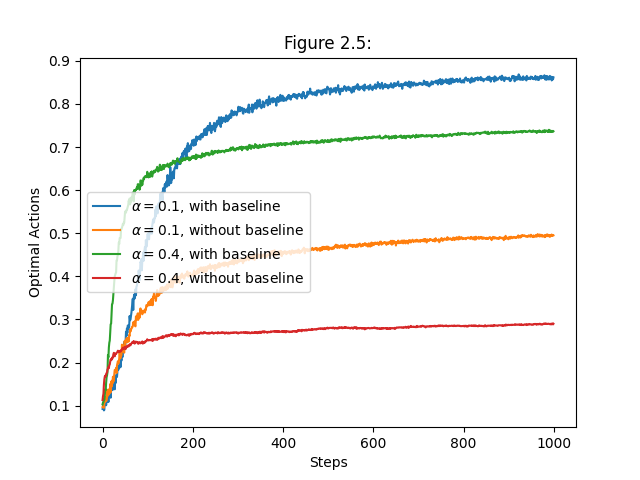
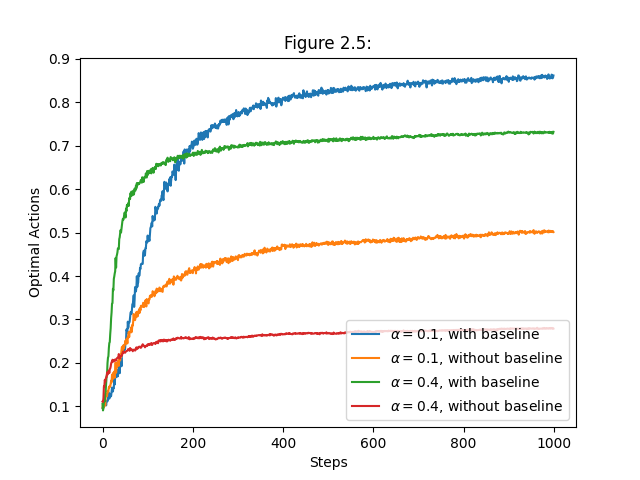
improve README.md and GBA plot

diff --git a/ten-armed-bandit/README.md b/ten-armed-bandit/README.md
@@ -1,106 +1,96 @@
 # Multi-Armed Bandit Reinforcement Learning Project
 
-This project simulates the behavior of a multi-armed bandit problem using epsilon-greedy strategies. It generates plots to visualize the average reward and percentage of optimal actions over time for different epsilon values.
+This project explores various strategies for solving the **Multi-Armed Bandit (MAB)** problem, a classic reinforcement learning challenge. The MAB problem involves an agent making sequential decisions to maximize cumulative rewards by balancing **exploration** (trying new actions) and **exploitation** (leveraging known information). The project implements and compares several algorithms, including **epsilon-greedy**, **optimistic initialization**, **Upper Confidence Bound (UCB)**, and **Gradient Bandit Algorithm (GBA)**, to understand their performance in stationary environments.
 
 ---
+
 ## Features
-- Simulates multi-armed bandit problems with customizable epsilon values.
-- Generates plots for average reward and percentage of optimal actions.
-- Supports sample-averages and constant step-size methods for action-value estimation.
+- **Customizable Bandit Simulation**: Simulates multi-armed bandit problems with adjustable parameters like epsilon values, step sizes, and initial action values.
+- **Multiple Algorithms**: Implements and compares epsilon-greedy, optimistic initialization, UCB, and gradient bandit algorithms.
+- **Visualization**: Generates plots for average reward and percentage of optimal actions over time.
+- **Flexible Methods**: Supports both **sample-averages** and **constant step-size** methods for action-value estimation.
 
 ---
+
 ## How It Works
-1. **Bandit Class**: Implements the epsilon-greedy algorithm for action selection and updates action values based on rewards.
-2. **Simulation**: Runs multiple independent runs with different epsilon values and calculates mean rewards and optimal actions.
-3. **Plotting**: Visualizes the results using `matplotlib` and saves the plots as high-resolution images.
+1. **Bandit Class**: Implements the core logic for action selection and value updates using different strategies.
+2. **Simulation**: Runs multiple independent runs with varying parameters to evaluate performance.
+3. **Plotting**: Visualizes results using `matplotlib` and saves plots as high-resolution images for analysis.
 
 ---
+
 ## Requirements
-
-You can see the requirements in `requirements.txt`
-
----
-
-# Results 
-## Greedy Action Selection VS ε-greedy Action Selection
-
-1. **Exploration vs. Exploitation**:
-   - Higher epsilon (`ε = 0.10`) leads to more exploration, which helps discover better actions early but reduces long-term performance.
-   - Lower epsilon (`ε = 0.01`) leads to better long-term results. The percentage of optimal actions increases steadily and converges to a higher value, indicating a good balance between exploration and exploitation.
-   - Greedy strategy (`ε = 0.00`) performs poorly because it lacks exploration.
-
-2. **Optimal Strategy**:
-   - A small amount of exploration (`ε = 0.01`) is optimal for maximizing both average reward and the percentage of optimal actions over time.
-
-<img src="https://github.com/user-attachments/assets/f96a748d-1179-477d-92ef-4828d0e1b068" width="400" />
+To run the project, install the required dependencies:
+```bash
+pip install numpy matplotlib tqdm
+```
 
 ---
 
-## Optimistic Initial Values VS Realistic Initial Values
+## Results and Findings
 
-The simulation calculates the percentage of optimal actions over time for each bandit. The results are plotted as follows:
+### 1. **Epsilon-Greedy Action Selection**
+   - **Exploration vs. Exploitation**: 
+     - Higher epsilon values (`ε = 0.10`) encourage more exploration, which helps discover better actions early but may reduce long-term performance.
+     - Lower epsilon values (`ε = 0.01`) strike a balance, leading to better long-term results by gradually increasing the percentage of optimal actions.
+     - Greedy strategy (`ε = 0.00`) performs poorly due to lack of exploration.
+   - **Optimal Strategy**: A small amount of exploration (`ε = 0.01`) is ideal for maximizing both average reward and the percentage of optimal actions over time.
 
-1. **Bandit 1 (`ε = 0, 𝑄₁(𝑎) = 5`)**: Represents a greedy strategy with optimistic initial values.
-2. **Bandit 2 (`ε = 0.1, 𝑄₁(𝑎) = 0`)**: Represents an epsilon-greedy strategy with realistic initial values.
-
-<img src="https://github.com/user-attachments/assets/9b01d312-d812-460b-a7b3-50aa9d0ab5f1" width="400" />
-
-
- - In **stationary environments**, this method forces early exploration: actions with high initial values eventually get corrected if they’re not actually optimal.
- - In **nonstationary environments**, this method fails because the agent stops exploring new possibilities once it settles on one action.
-
-### My Findings: Why Optimistic Initialization Worked Best in this Case  
-
-After extending the simulation, I found that **the optimistic method (`ε = 0, Q₁(a) = 5`) performed better** because my problem is **stationary**—the true rewards **do not change over time**.  
-
-
-- The **high initial values** encourage early exploration by making all actions seem promising at first.  
-- Once the agent discovers the **best action**, it **sticks to it**, maximizing rewards.  
-- The **ε-greedy method (`ε = 0.1, Q₁(a) = 0`) continues exploring**, even after finding the optimal action, leading to **unnecessary losses**.  
-
-Because **exploration isn’t needed indefinitely** in a stationary environment, the **optimistic greedy approach** proves to be more efficient.  
-
-## Upper Confidence Bound (UCB) Action Selection
-
-The **UCB algorithm** selects actions by balancing **exploration** and **exploitation** using a confidence-based approach.  
-- It prioritizes under-explored actions based on an **uncertainty term (c = 2)**.  
-- Over time, exploration decreases as the agent becomes more confident in the best action.  
-
-### Simulation:
-- **Bandit 1:** UCB (`c = 2`), sample-average method.  
-- **Bandit 2:** ε-greedy (`ε = 0.1`), sample-average method.  
-- **Result:** UCB achieves **higher rewards** by focusing exploration where needed.  
-
-<img src="https://github.com/user-attachments/assets/02d38a28-7073-4998-b9a7-8c0b0c7903cf" width="400" />
-
+   ![Epsilon-Greedy Results](https://github.com/user-attachments/assets/f96a748d-1179-477d-92ef-4828d0e1b068)
 
 ---
 
-## Gradient Bandit Algorithm (GBA)
+### 2. **Optimistic Initial Values vs. Realistic Initial Values**
+   - **Optimistic Initialization (`ε = 0, Q₁(a) = 5`)**: Encourages early exploration by setting high initial action values. This method works well in **stationary environments** because the agent eventually converges to the optimal action.
+   - **Realistic Initialization (`ε = 0.1, Q₁(a) = 0`)**: Continues exploring even after finding the optimal action, leading to unnecessary losses.
+   - **Key Insight**: Optimistic initialization performs better in stationary environments because it efficiently balances exploration and exploitation without requiring indefinite exploration.
 
-The **Gradient Bandit algorithm** dynamically adjusts action probabilities based on **policy gradient techniques**.  
-- Uses **preference scores** rather than value estimates.  
-- Incorporates a **learning rate (α)** and **baseline reward** for better adaptation.  
-
-### Simulation:
-- **Variations tested:**  
-  - `α = 0.1` and `α = 0.4`  
-  - With and without **baseline reward**  
-- **Result:** Higher `α` leads to **faster learning**, while using a baseline improves stability.
-
-<img src="https://github.com/user-attachments/assets/bf90ec58-b7af-4229-8cf7-86a0dea06682" width="400" />
-
-
+   ![Optimistic vs. Realistic](https://github.com/user-attachments/assets/9b01d312-d812-460b-a7b3-50aa9d0ab5f1)
 
 ---
+
+### 3. **Upper Confidence Bound (UCB) Action Selection**
+   - **UCB Algorithm**: Balances exploration and exploitation by prioritizing under-explored actions using a confidence-based term (`c = 2`).
+   - **Simulation Results**: UCB achieves higher rewards compared to epsilon-greedy (`ε = 0.1`) by focusing exploration where it is most needed.
+   - **Advantage**: UCB dynamically adjusts exploration based on uncertainty, making it more efficient in stationary environments.
+
+   ![UCB Results](https://github.com/user-attachments/assets/02d38a28-7073-4998-b9a7-8c0b0c7903cf)
+
+---
+
+### 4. **Gradient Bandit Algorithm (GBA)**
+   - **GBA Overview**: Adjusts action probabilities dynamically using **preference scores** and a **learning rate (α)**. It incorporates a **baseline reward** for stability.
+   - **Simulation Results**:
+     - Higher learning rates (`α = 0.4`) lead to faster learning but may reduce stability.
+     - Using a baseline reward improves performance by providing a reference point for updates.
+   - **Key Insight**: GBA is effective for adapting to changing environments but requires careful tuning of parameters.
+
+   ![GBA Results](https://github.com/user-attachments/assets/f305ed46-5c97-40c9-bb09-d26692dd843a)
+
+---
+
+## Conclusion
+This project demonstrates the effectiveness of different strategies for solving the multi-armed bandit problem in stationary environments. Key takeaways include:
+1. **Epsilon-Greedy**: A small amount of exploration (`ε = 0.01`) provides a good balance between exploration and exploitation.
+2. **Optimistic Initialization**: Works best in stationary environments by encouraging early exploration without requiring indefinite exploration.
+3. **UCB**: Outperforms epsilon-greedy by dynamically adjusting exploration based on uncertainty.
+4. **GBA**: Offers flexibility and adaptability but requires careful parameter tuning.
+
+These findings highlight the importance of choosing the right strategy based on the problem's characteristics, such as whether the environment is stationary or non-stationary.
+
+---
+
 ## How to Run
 1. Install dependencies:
    ```bash
    pip install numpy matplotlib tqdm
-   
-2. Run the ten_armed_testbed.ipynb notebook:
-
+   ```
+2. Run the `ten_armed_testbed.ipynb` notebook:
    ```bash
    python ten_armed_testbed.ipynb
-   
+   ```
 3. Generated plots are saved in `../generated_images/`.
+
+---
+
+This project provides a comprehensive exploration of multi-armed bandit algorithms, offering insights into their strengths and weaknesses in different scenarios. By visualizing the results, users can better understand the trade-offs between exploration and exploitation and apply these concepts to real-world decision-making problems.
